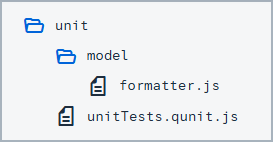
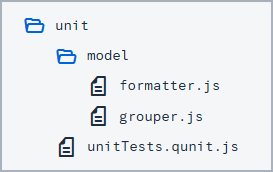
OpenUI5 Documentation Update 13.03.2025

diff --git a/docs/Dates_Times_Timestamps_and_Time_Zones_6c9e61d.md b/docs/Dates_Times_Timestamps_and_Time_Zones_6c9e61d.md
@@ -436,9 +436,9 @@ If an application has to create new entities for a model and initialize them wit
 >          * With OData V4: <DateTimePicker id="deliveryDate::createSalesOrderItemDialog" value="{DeliveryDate}"/>
 >          */
 >         onCreateItem() {
->             var oDeliveryDate = UI5Date.getInstance(),
->                 // Get the data type via the data binding
->                 oType = this.byId("deliveryDate::createSalesOrderItemDialog").getBinding("value").getType();
+>             const oDeliveryDate = UI5Date.getInstance();
+>             // Get the data type via the data binding
+>             const oType = this.byId("deliveryDate::createSalesOrderItemDialog").getBinding("value").getType();
 >  
 >             oDeliveryDate.setMonth(oDeliveryDate.getMonth() + 1);            
 >             this.byId("ToLineItems").getBinding("rows").create({
@@ -554,7 +554,7 @@ To ensure consistency and reduce the number of type instances during runtime, we
 > 
 > ```
 > <!-- Model value is a string in the format "hh:mm:ss" resp. "hh:mm:ss.SSS" -->
-> <!--    (the number of S depends on the type's precision) -->
+> <!-- (the number of S depends on the type's precision) -->
 > <TimePicker value="{/V4/Time}"/>
 >  
 > <!-- When binding an Edm.TimeOfDay, for example via a JSON model, you have to specify a type -->
@@ -590,11 +590,11 @@ To ensure consistency and reduce the number of type instances during runtime, we
 > 
 > ```
 > <!-- Model value is a string in the format "yyyy-MM-dd'T'HH:mm:ss" resp. "yyyy-MM-dd'T'HH:mm:ss.SSS" -->
-> <!--   (the number of S depends on the type's precision), e.g. "2015-01-06T07:25:21Z" -->
+> <!-- (the number of S depends on the type's precision), e.g. "2015-01-06T07:25:21Z" -->
 > <DateTimePicker value="{/V4/DateTimeOffset}"/>
 >  
 > <!-- When binding an OData V4 Edm.DateTimeOffset, for example via a JSON model, you must specify a type -->
-> <!--    and you have to set the constraint V4 to true. -->
+> <!-- and you have to set the constraint V4 to true. -->
 > <mvc:View
 >     xmlns:core="sap.ui.core"
 >     xmlns:mvc="sap.ui.core.mvc"
@@ -707,7 +707,7 @@ JSON models can also be used if the data is stored in the JSON model in the same
 > ```
 > transferDatesTimesAndTimestampsFromODataV2ModelToJSONModel(oContext) {
 >     // assume "oContext" is an OData V2 context referencing an entity with the properties 
->     //   "DateTime" (date), "DateTimeOffset" (timestamp) and "Time" (time)
+>     // "DateTime" (date), "DateTimeOffset" (timestamp) and "Time" (time)
 >     const oDate = oContext.getProperty("DateTime");
 >     const oDateTimeOffset = oContext.getProperty("DateTimeOffset");
 >     const oTime = oContext.getProperty("Time");
@@ -719,7 +719,7 @@ JSON models can also be used if the data is stored in the JSON model in the same
 >     });
 > },
 > transferDatesTimesAndTimestampsFromJSONModelToODataV2Model(oContext, oJSONModel) {
->     // assume "oContext"  is an OData V2 context referencing an entity with the properties 
+>     // assume "oContext" is an OData V2 context referencing an entity with the properties 
 >     //   "DateTime" (date), "DateTimeOffset" (timestamp) and "Time" (time)
 >     // assume "oJSONModel" is a JSONModel containing the values to be transferred 
 >     //   to the OData V2 model "oDataModel"
@@ -753,7 +753,7 @@ If an OData V4 model is used, cloning is not necessary, as the model representat
 > ```
 > transferDatesTimesAndTimestampsFromODataV4ModelToJSONModel(oContext) {
 >     // assume "oContext" is an OData V4 context referencing an entity with the properties 
->     //   "Date" (date), "DateTimeOffset" (timestamp) and "TimeOfDay" (time)
+>     // "Date" (date), "DateTimeOffset" (timestamp) and "TimeOfDay" (time)
 >     return new JSONModel({
 >         Date: oContext.getProperty("Date"),
 >         DateTimeOffset: oContext.getProperty("DateTimeOffset"),
@@ -762,9 +762,9 @@ If an OData V4 model is used, cloning is not necessary, as the model representat
 > },
 > transferDatesTimesAndTimestampsFromJSONModelToODataV4Model(oContext, oJSONModel) {
 >     // assume "oContext"  is an OData V4 context referencing an entity with the properties 
->     //  "Date" (date), "DateTimeOffset" (timestamp) and "TimeOfDay" (time)
+>     //   "Date" (date), "DateTimeOffset" (timestamp) and "TimeOfDay" (time)
 >     // assume "oJSONModel" is a JSONModel containing the values to be transferred 
->     //  to the OData V4 Model "oDataModel"
+>     //   to the OData V4 Model "oDataModel"
 >     oContext.setProperty("DateTime", oJSONModel.getProperty("/Date"));
 >     oContext.setProperty("DateTimeOffset", oJSONModel.getProperty("/DateTimeOffset"));
 >     oContext.setProperty("Time", oJSONModel.getProperty("/Time"));

diff --git a/docs/Creating_an_Entity_in_a_Collection_c9723f8.md b/docs/Creating_an_Entity_in_a_Collection_c9723f8.md
@@ -34,7 +34,7 @@ Use the `bIgnoreKeptAlive` parameter of `ODataListBinding#hasPendingChanges` to 
 > ### Note:  
 > The position of the created entity may change after the methods `refresh`, `filter`, or `sort` of an [`ODataListBinding`](https://sdk.openui5.org/api/sap.ui.model.odata.v4.ODataListBinding).
 
-If you have called [`ODataListBinding#create`](https://sdk.openui5.org/api/sap.ui.model.odata.v4.ODataListBinding/methods/create) on a list binding where the update group ID has [`SubmitMode.API`](https://sdk.openui5.org/api/sap.ui.model.odata.v4.SubmitMode) and the creation of the entity on the server fails, the creation is repeated with the next call of [`submitBatch`](https://sdk.openui5.org/api/sap.ui.model.odata.v4.ODataModel/methods/submitBatch) for this group. If the update group ID has [`SubmitMode.Auto`](https://sdk.openui5.org/api/sap.ui.model.odata.v4.SubmitMode) or [`SubmitMode.Direct`](https://sdk.openui5.org/api/sap.ui.model.odata.v4.SubmitMode) and the creation fails, the creation is repeated automatically with the next update for the entity. `submitBatch` can also be used for update group IDs with `SubmitMode.Auto` to repeat, independently of an update. The error returned by the server is passed to the [`MessageManager`](https://sdk.openui5.org/api/sap.ui.core.message.MessageManager) and the promise you get via [`Context.created`](https://sdk.openui5.org/api/sap.ui.model.odata.v4.Context/methods/created) is not rejected. Each time the data for the created entity is sent to the server, a [`v4.ODataListBinding.createSent`](https://sdk.openui5.org/api/sap.ui.model.odata.v4.ODataListBinding/events/createSent) event is fired. Each time the client receives a response for the creation, a [`v4.ODataListBinding.createCompleted`](https://sdk.openui5.org/api/sap.ui.model.odata.v4.ODataListBinding/events/createCompleted) event is fired, independent of whether the creation was successful or not.
+If you have called [`ODataListBinding#create`](https://sdk.openui5.org/api/sap.ui.model.odata.v4.ODataListBinding/methods/create) on a list binding where the update group ID has [`SubmitMode.API`](https://sdk.openui5.org/api/sap.ui.model.odata.v4.SubmitMode) and the creation of the entity on the server fails, the creation is repeated with the next call of [`submitBatch`](https://sdk.openui5.org/api/sap.ui.model.odata.v4.ODataModel/methods/submitBatch) for this group. If the update group ID has [`SubmitMode.Auto`](https://sdk.openui5.org/api/sap.ui.model.odata.v4.SubmitMode) or [`SubmitMode.Direct`](https://sdk.openui5.org/api/sap.ui.model.odata.v4.SubmitMode) and the creation fails, the creation is repeated automatically with the next update for the entity. `submitBatch` can also be used for update group IDs with `SubmitMode.Auto` to repeat, independently of an update. The error returned by the server is passed to the [`Messaging`](https://sdk.openui5.org/api/module:sap/ui/core/Messaging) module and the promise you get via [`Context.created`](https://sdk.openui5.org/api/sap.ui.model.odata.v4.Context/methods/created) is not rejected. Each time the data for the created entity is sent to the server, a [`v4.ODataListBinding.createSent`](https://sdk.openui5.org/api/sap.ui.model.odata.v4.ODataListBinding/events/createSent) event is fired. Each time the client receives a response for the creation, a [`v4.ODataListBinding.createCompleted`](https://sdk.openui5.org/api/sap.ui.model.odata.v4.ODataListBinding/events/createCompleted) event is fired, independent of whether the creation was successful or not.
 
 > ### Recommendation:  
 > Lock the UI each time the \(`POST`\) request for the creation is sent to the server and unlock it, when the response from the server for that \(`POST`\) request is processed, because updates in between result in errors. If the update group ID is [`SubmitMode.API`](https://sdk.openui5.org/api/sap.ui.model.odata.v4.SubmitMode), you can lock the UI when calling [`ODataModel#submitBatch`](https://sdk.openui5.org/api/sap.ui.model.odata.v4.ODataModel/methods/submitBatch) and unlock it again when the promise returned by `ODataModel#submitBatch` is resolved or rejected. However, if the update group ID is `SubmitMode.Auto` or `SubmitMode.Direct`, use the `createSent` event to lock the related UI and the `createCompleted` event to unlock it.

diff --git a/docs/Step_3_Automatic_Data_Type_Detection_96bb6e0.md b/docs/Step_3_Automatic_Data_Type_Detection_96bb6e0.md
@@ -78,7 +78,7 @@ In the `manifest.json` descriptor file, we add the `"handleValidation": true` se
 We now run the app using the `index.html` file and enter values that don't match the type and constraints given in the metadata file. For example, enter the string value `Young at Heart` in field *Age*, which requires an integer input \(OpenUI5 type `sap.ui.model.odata.type.Int64`, corresponding to OData type `Edm.Int64`\), or remove an entry from the *User Name* or *First Name* fields, which are mandatory. Fields with incorrect entries are highlighted and an error message is displayed.
 
 > ### Note:  
-> If you explicitly define a type in the binding info of a control, the automatic type detection for that binding will be turned off. For example, if you change the `Input` for `Age` in the view to `<Input value="{path:'Age', type:'sap.ui.model.type.String'}/>`, the `String` type will be used, not the `Int64` type from the service metadata.
+> If you explicitly define a type in the binding info of a control, the automatic type detection for that binding will be turned off. For example, if you change the `Input` for `Age` in the view to `<Input value="{path:'Age', type:'StringType'}/>`, the `String` type will be used, not the `Int64` type from the service metadata. Note that `StringType` has to be required from `sap/ui/model/odata/type/String` as shown in [Binding Syntax](Binding_Syntax_e2e6f41.md).
 
 ***
 

diff --git a/docs/Folder_Structure_Where_to_Put_Your_Files_003f755.md b/docs/Folder_Structure_Where_to_Put_Your_Files_003f755.md
@@ -64,11 +64,9 @@ The `controller` folder contains all the controllers used by your views, and mig
 
 **The `model` Folder**
 
-The `model` folder is where you put any files needed for creating models and logic relating to model data. This includes grouping, filtering and formatting data.
+The `model` folder is where you put any logic relating to model data. This includes grouping, filtering and formatting data.
 
 ![](images/loiof990b6e5f10c4386835d49495dc4259c_LowRes.png)
-
-In the above example, `models.js` is a factory for creating models that are used by our application.
 
 **Localization Folder - `i18n`**
 
@@ -101,7 +99,7 @@ The `test` folder contains three sets of files: files related to unit tests, fil
 
 ![](images/loio7958ae4e55c6419b90320a45cbcc72ae_LowRes.png)
 
-In this example shown above, the files being tested are `webapp/model/formatter.js` and `webapp/model/models.js`. You may be using JavaScript/TypeScript files for defining the tests, and files related to the [Test Starter](Test_Starter_032be2c.md) to execute your tests.
+In this example shown above, the files being tested are `webapp/model/formatter.js` and `webapp/model/grouper.js`. You may be using JavaScript/TypeScript files for defining the tests, and files related to the [Test Starter](Test_Starter_032be2c.md) to execute your tests.
 
 ![](images/loio05316ff7b0c94c00afc68f25a67ee4cf_LowRes.png)
 
